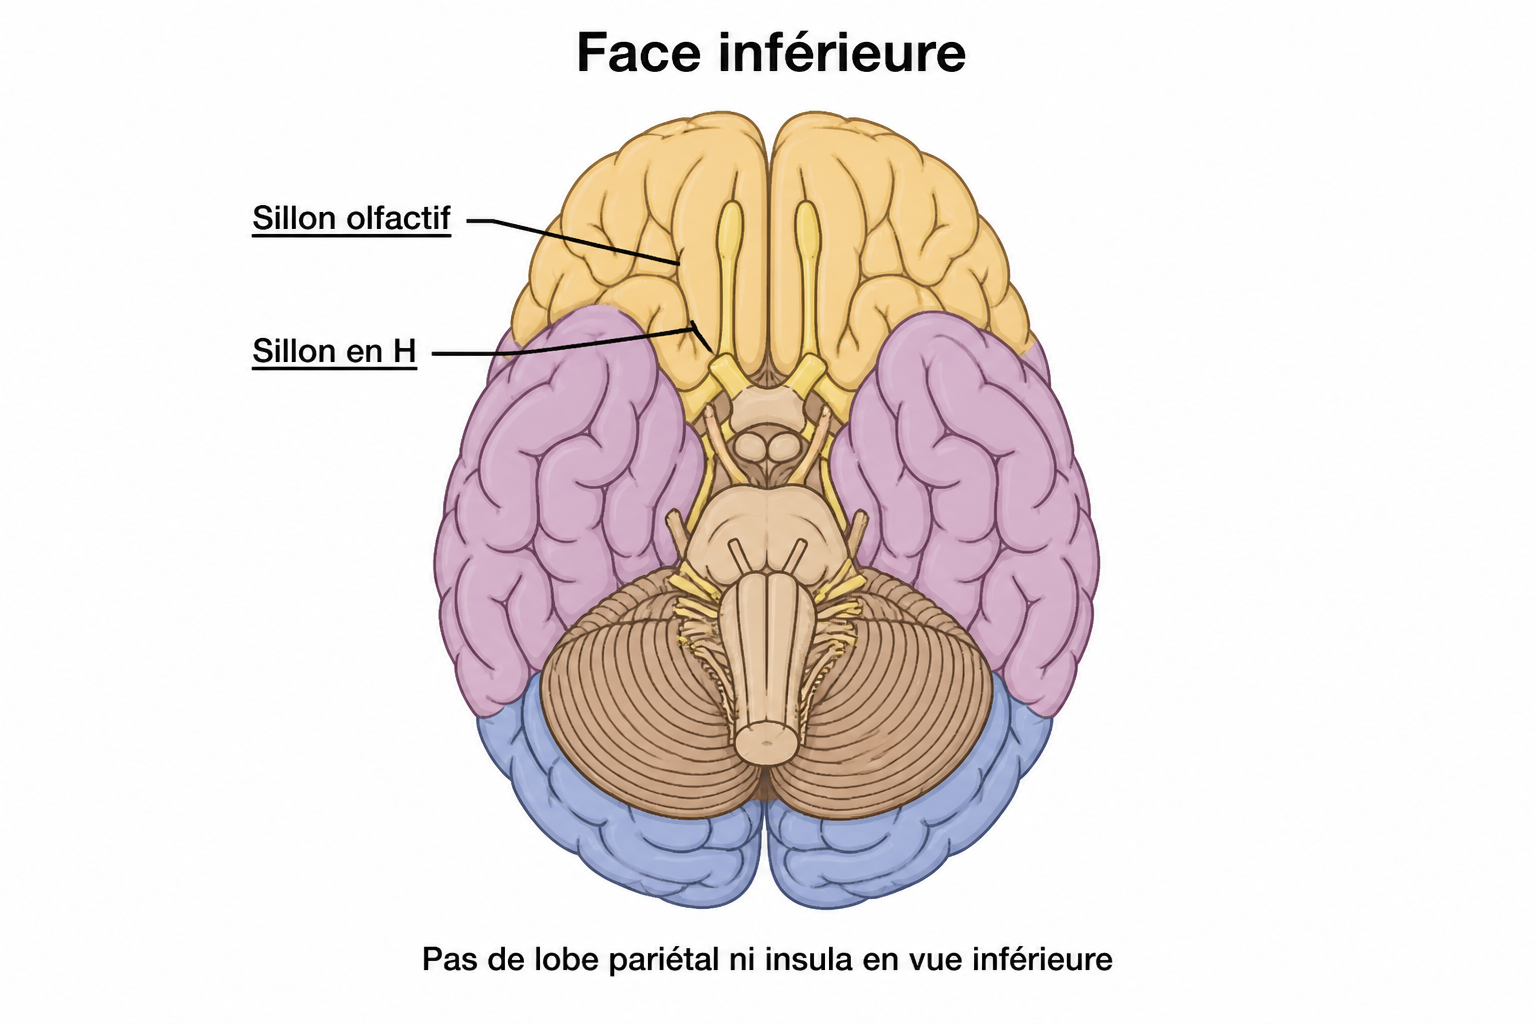
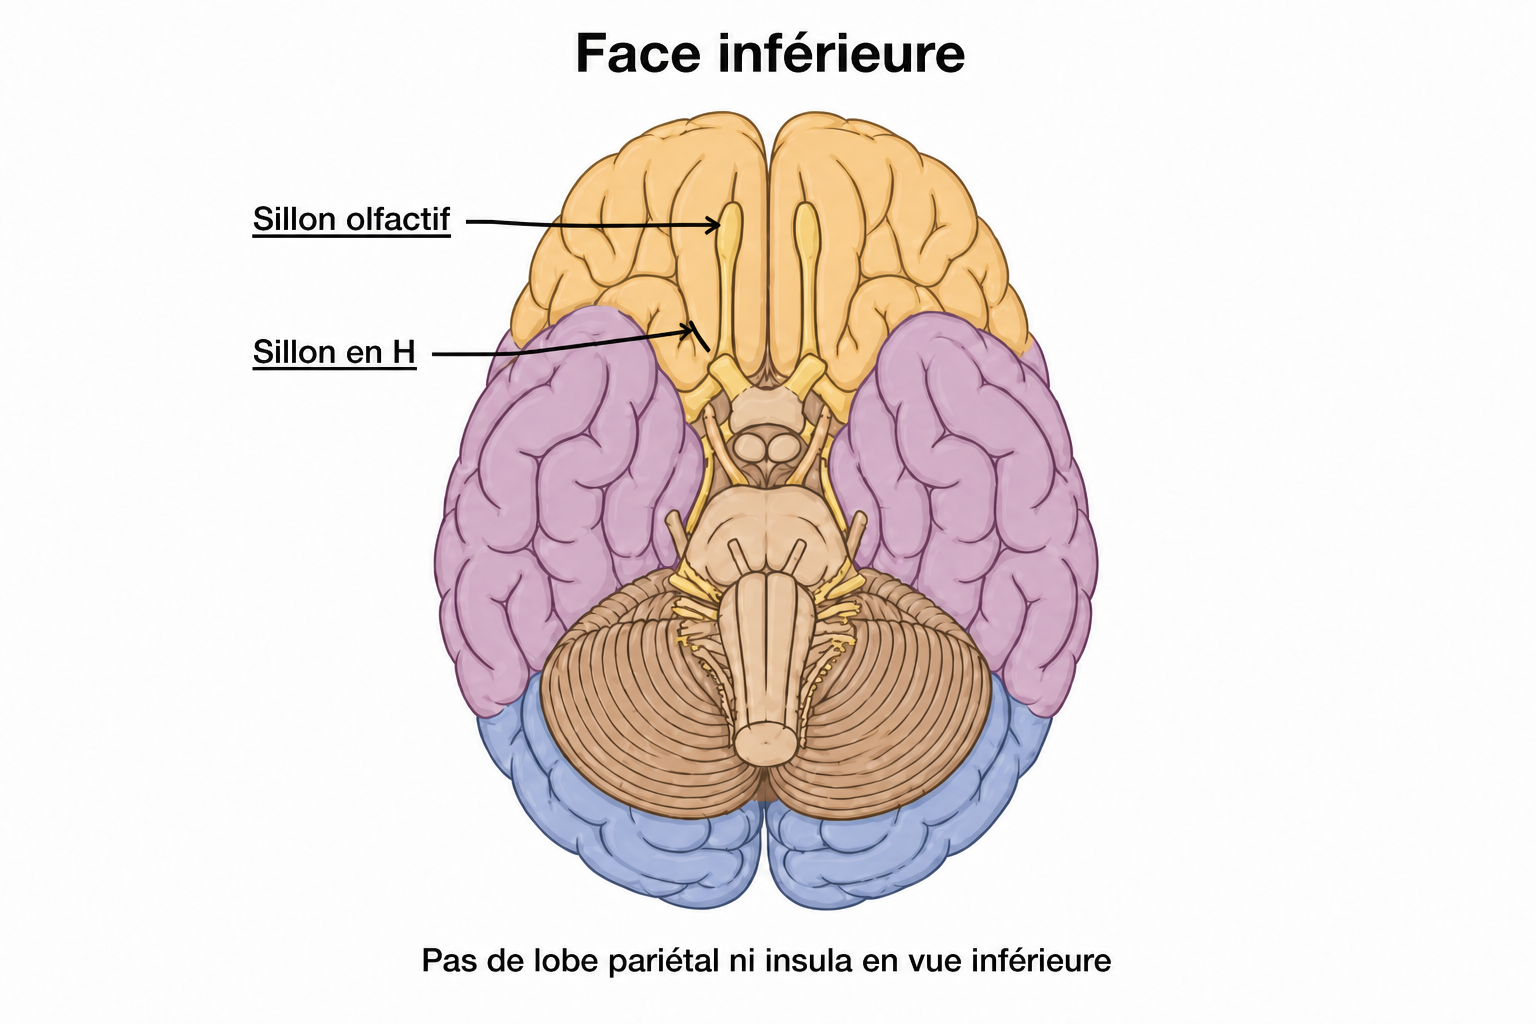
Fix olfactory sulcus arrow on ch02 inferior face schema.

diff --git a/data/flash/ch02.js b/data/flash/ch02.js
@@ -96,7 +96,7 @@
     { id: "FC-ANAT-02-S15", chapter: "02", priority: "P1", kind: "schema", front: "Schéma — Commissures", back: "Commissures", frontImg: "matiere/anatomie/img/ch02/blank/17_commissures.png", backImg: "matiere/anatomie/img/ch02/17_commissures.png" },
     { id: "FC-ANAT-02-S16", chapter: "02", priority: "P1", kind: "schema", front: "Schéma — Face latérale", back: "Face latérale", frontImg: "matiere/anatomie/img/ch02/blank/21_face_laterale.png", backImg: "matiere/anatomie/img/ch02/21_face_laterale.png" },
     { id: "FC-ANAT-02-S17", chapter: "02", priority: "P1", kind: "schema", front: "Schéma — Face médiale", back: "Face médiale", frontImg: "matiere/anatomie/img/ch02/blank/22_face_mediale.png?v=fc2c", backImg: "matiere/anatomie/img/ch02/22_face_mediale.png?v=fc2c" },
-    { id: "FC-ANAT-02-S18", chapter: "02", priority: "P1", kind: "schema", front: "Schéma — Face inférieure", back: "Face inférieure", frontImg: "matiere/anatomie/img/ch02/blank/23_face_inferieure.png", backImg: "matiere/anatomie/img/ch02/23_face_inferieure.png" },
+    { id: "FC-ANAT-02-S18", chapter: "02", priority: "P1", kind: "schema", front: "Schéma — Face inférieure", back: "Face inférieure", frontImg: "matiere/anatomie/img/ch02/blank/23_face_inferieure.png?v=fc2d", backImg: "matiere/anatomie/img/ch02/23_face_inferieure.png?v=fc2d" },
     { id: "FC-ANAT-02-S19", chapter: "02", priority: "P1", kind: "schema", front: "Schéma — Gyrus frontaux", back: "Gyrus frontaux", frontImg: "matiere/anatomie/img/ch02/blank/26_frontal_gyrus.png", backImg: "matiere/anatomie/img/ch02/26_frontal_gyrus.png" },
     { id: "FC-ANAT-02-S20", chapter: "02", priority: "P1", kind: "schema", front: "Schéma — Régions pariétales", back: "Régions pariétales", frontImg: "matiere/anatomie/img/ch02/blank/28_parietal_regions.png?v=fc2", backImg: "matiere/anatomie/img/ch02/28_parietal_regions.png?v=fc2" },
     { id: "FC-ANAT-02-S21", chapter: "02", priority: "P1", kind: "schema", front: "Schéma — Heschl et Wernicke", back: "Heschl et Wernicke", frontImg: "matiere/anatomie/img/ch02/blank/30_heschl_wernicke.png?v=fc2", backImg: "matiere/anatomie/img/ch02/30_heschl_wernicke.png?v=fc2" },

diff --git a/matiere/anatomie/ch02.html b/matiere/anatomie/ch02.html
@@ -363,7 +363,7 @@
         <img src="./img/ch02/22_face_mediale.png?v=fc2c" alt="Face médiale" />
       </figure>
       <figure class="schema">
-        <img src="./img/ch02/23_face_inferieure.png" alt="Face inférieure" />
+        <img src="./img/ch02/23_face_inferieure.png?v=fc2d" alt="Face inférieure" />
       </figure>
       <div class="label-quiz" data-labels='[["sillon central"],["insula"],["sillon cingulaire"],["parieto occipital","parieto-occipital"],["sillon olfactif"],["sillon en h","en h"],["gyrus orbitaire"]]'>
         <div class="course-cloze">
